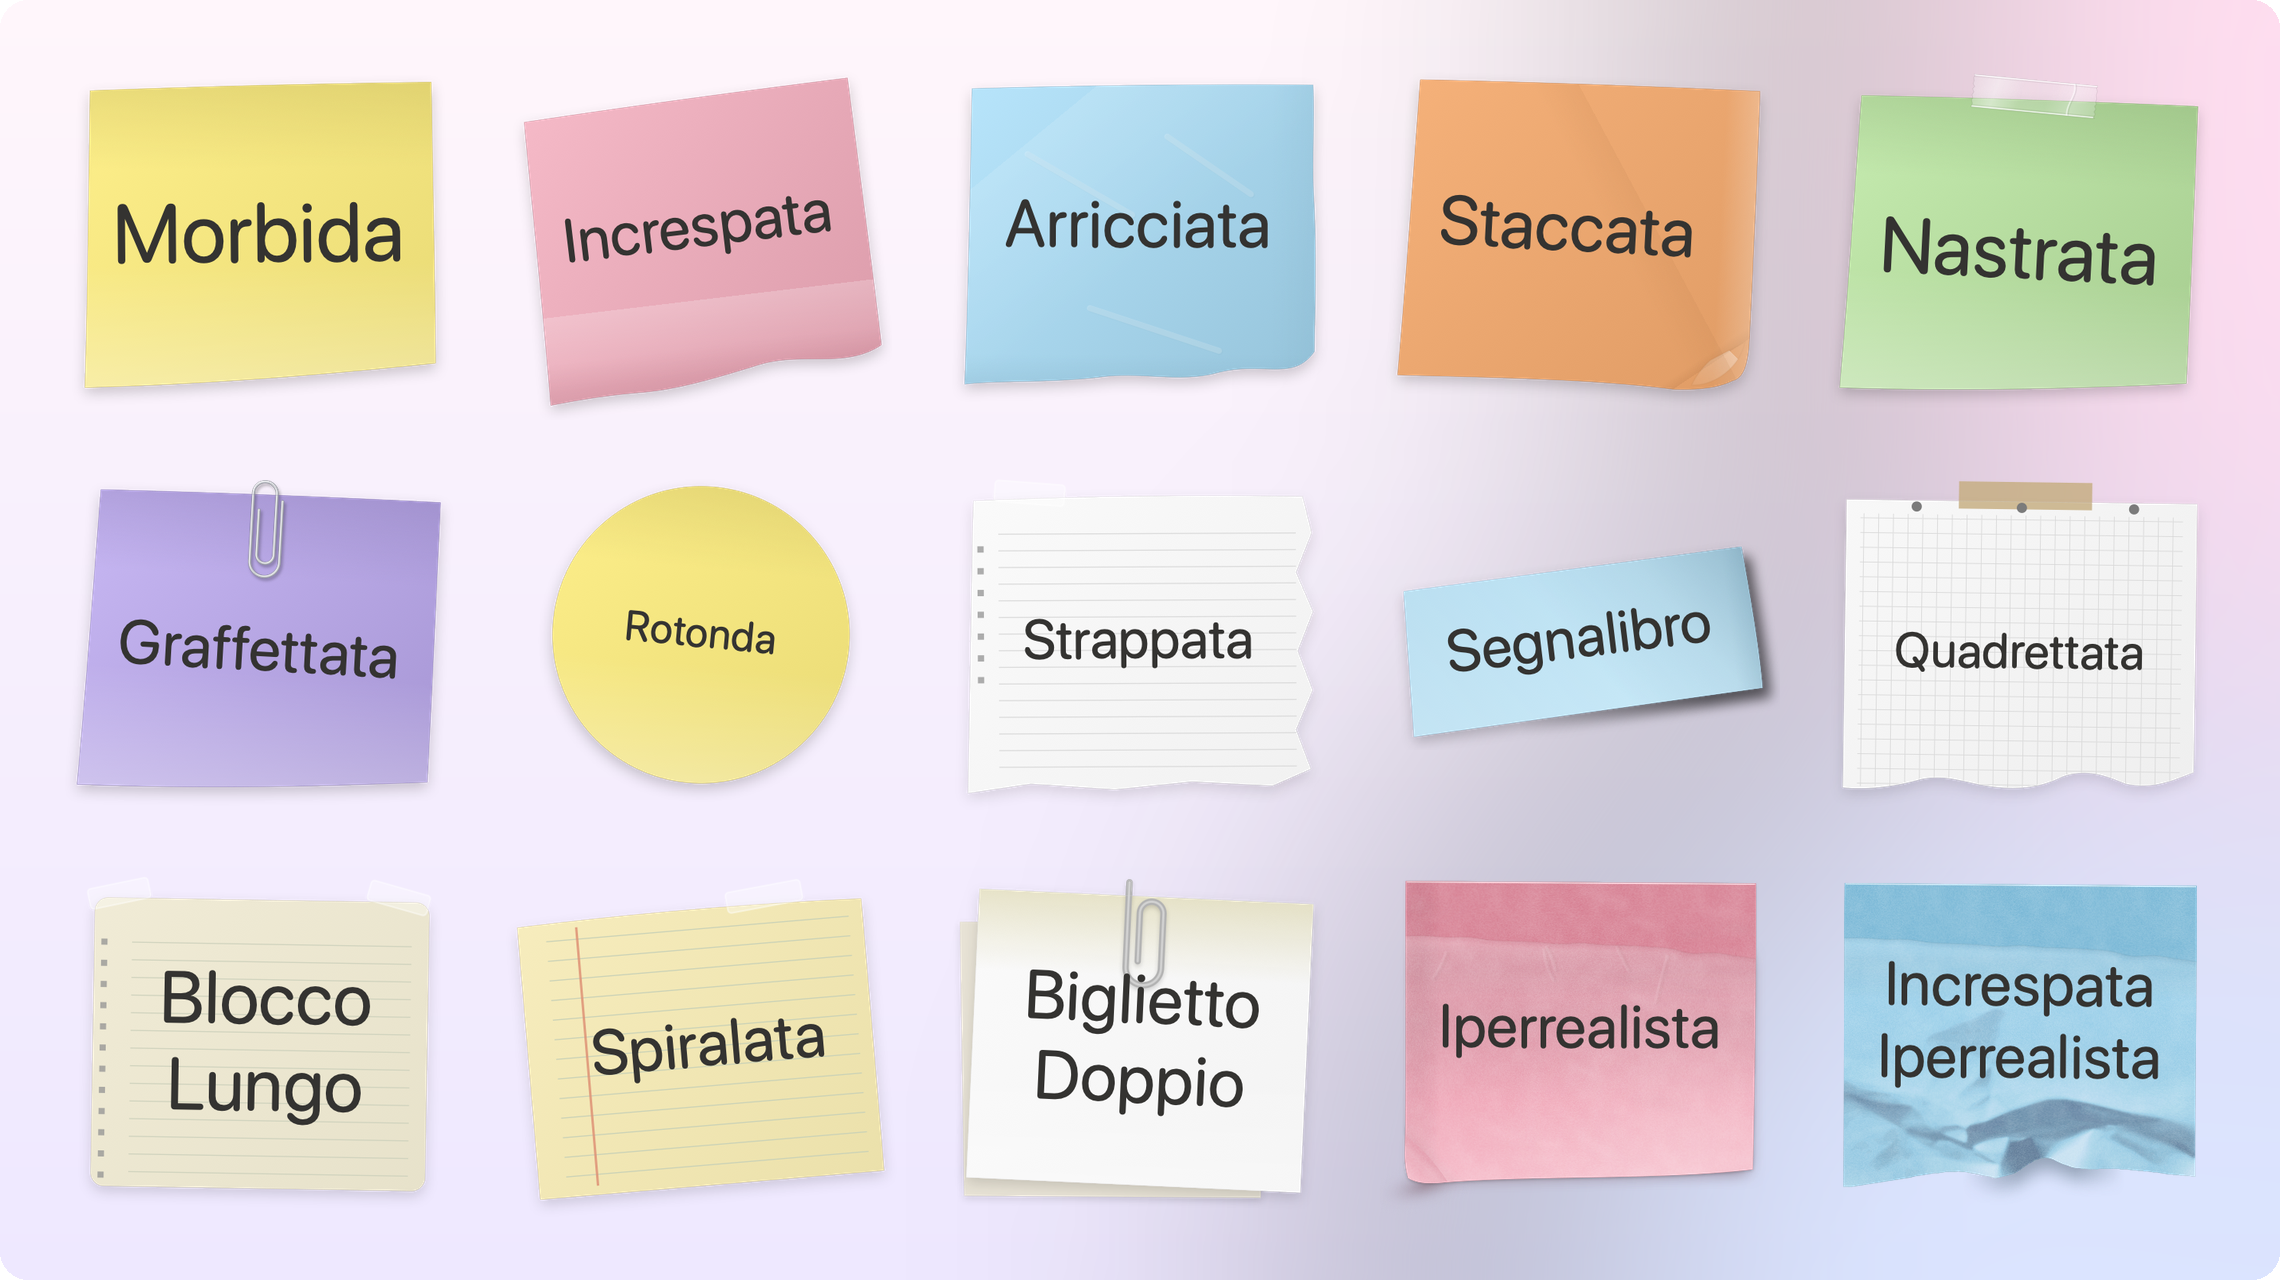
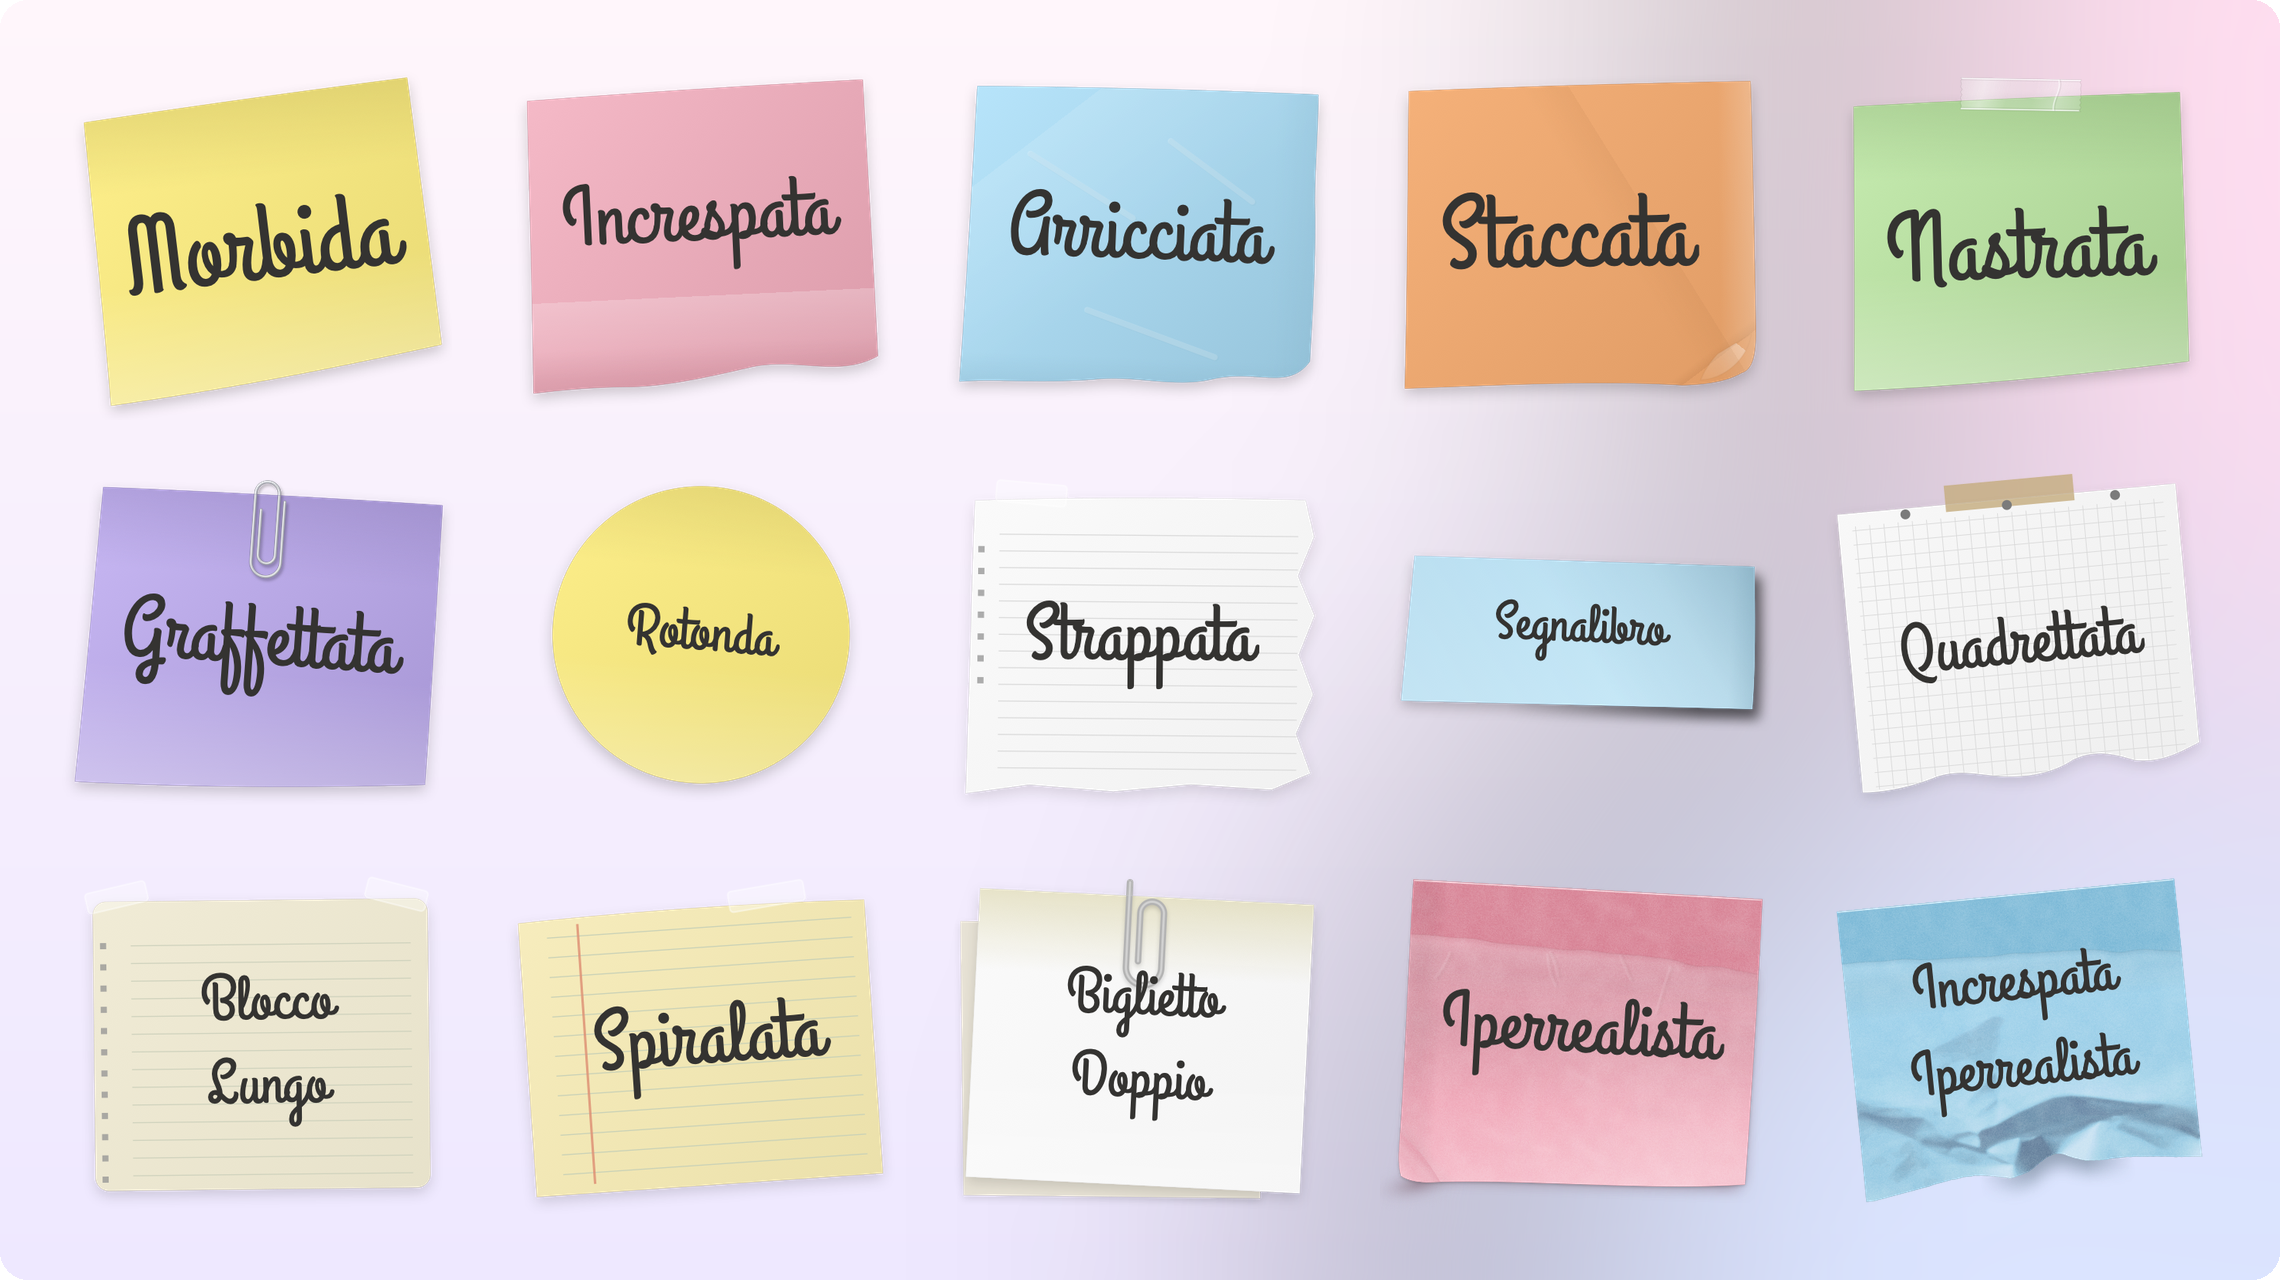
Immagini del README con il carattere Grand Hotel
- Istantanee: PIZZINU_SNAPSHOT_FONT imposta il carattere di tutte le note
  (tranne i pizzini segreti); PIZZINU_SNAPSHOT_NOTES disegna solo i
  foglietti di un elenco, per le immagini delle campagne.
- desktop, themes, markdown-reminder e secret rifatte in Grand Hotel.

diff --git a/Sources/Pizzinu/DebugSnapshots.swift b/Sources/Pizzinu/DebugSnapshots.swift
@@ -38,6 +38,23 @@ enum DebugSnapshots {
     static func run(in directory: URL) {
         try? FileManager.default.createDirectory(at: directory, withIntermediateDirectories: true)
         FontLibrary.reload()
+        // `PIZZINU_SNAPSHOT_NOTES=elenco.txt`: solo i foglietti elencati, una riga
+        // per foglietto: `nome|tema|colore|larghezza|altezza|testo` (`\n` = a capo).
+        // Serve per le immagini delle campagne.
+        if let path = ProcessInfo.processInfo.environment["PIZZINU_SNAPSHOT_NOTES"],
+           let list = try? String(contentsOfFile: path, encoding: .utf8) {
+            for line in list.split(separator: "\n") where !line.hasPrefix("#") {
+                let f = line.split(separator: "|", maxSplits: 5, omittingEmptySubsequences: false).map(String.init)
+                guard f.count == 6, let shape = PaperShape(rawValue: f[1]), let color = NoteColorID(rawValue: f[2]),
+                      let w = Double(f[3]), let h = Double(f[4]) else { continue }
+                var note = Note(content: f[5].replacingOccurrences(of: "\\n", with: "\n"), colorID: color, paperShape: shape)
+                note.paperWidth = w
+                note.paperHeight = h
+                render(note: note, shape: shape, to: directory.appendingPathComponent("\(f[0]).png"), controls: false)
+            }
+            renderThemeStore(to: directory)
+            return
+        }
         let colors: [NoteColorID] = [.lemon, .pink, .skyBlue, .orange, .pastelGreen]
         for (index, shape) in PaperShape.allCases.enumerated() {
             var note = Note(content: "", colorID: colors[index % colors.count], paperShape: shape)
@@ -308,7 +325,7 @@ enum DebugSnapshots {
         for sample in samples {
             var note = Note(content: sample.text, colorID: sample.color, paperShape: sample.shape, isMarkdown: sample.markdown)
             note.paperSize = sample.shape.preferredPaperSize(from: note.paperSize)
-            if sample.markdown { note.paperSize = CGSize(width: 250, height: 240) }
+            if sample.markdown { note.paperSize = CGSize(width: 250, height: 280) }
             note.isPinned = sample.pinned
             if sample.reminder { note.reminderAt = Calendar.current.date(bySettingHour: 15, minute: 30, second: 0, of: Date()) }
             render(note: note, shape: sample.shape, to: directory.appendingPathComponent("\(sample.name).png"), controls: false)
@@ -731,8 +748,15 @@ enum DebugSnapshots {
         try? FileManager.default.removeItem(at: folder)
     }
 
-    private static func render(note: Note, shape: PaperShape, to url: URL, editing: Bool = false, controls: Bool = true,
+    private static func render(note original: Note, shape: PaperShape, to url: URL, editing: Bool = false, controls: Bool = true,
                                checklist: [ChecklistItem] = []) {
+        // `PIZZINU_SNAPSHOT_FONT=GrandHotel-Regular`: tutte le note (tranne i
+        // pizzini segreti, che hanno il loro carattere) con quel carattere,
+        // per le immagini del README e delle campagne.
+        var note = original
+        if let font = ProcessInfo.processInfo.environment["PIZZINU_SNAPSHOT_FONT"], !note.isSecret {
+            note.noteFontName = font
+        }
         let metrics = StickyMetrics.make(paperSize: note.paperSize, mode: .realistic)
         let size = metrics.windowSize(forPaperSize: note.paperSize)
         let window = NSWindow(contentRect: NSRect(origin: CGPoint(x: -4000, y: -4000), size: size),
